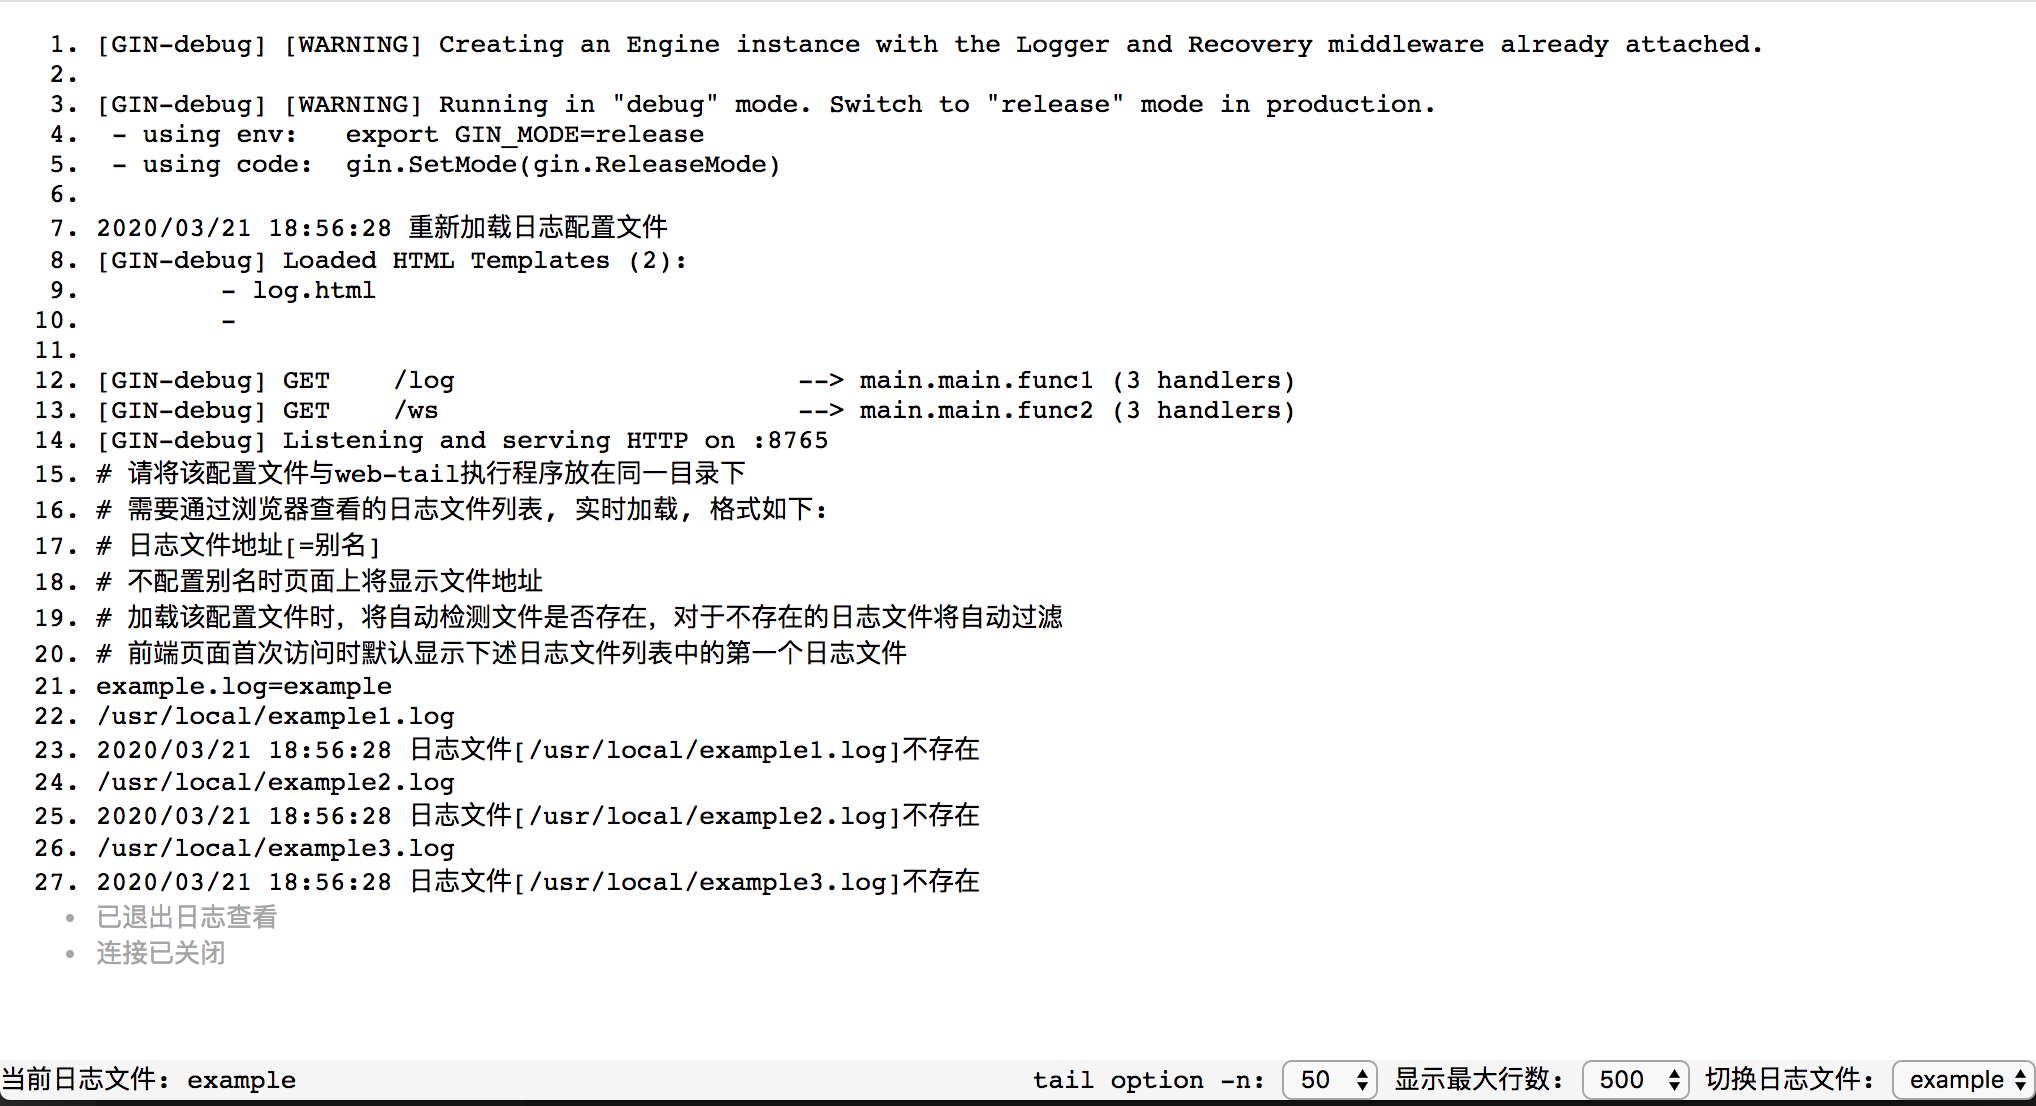
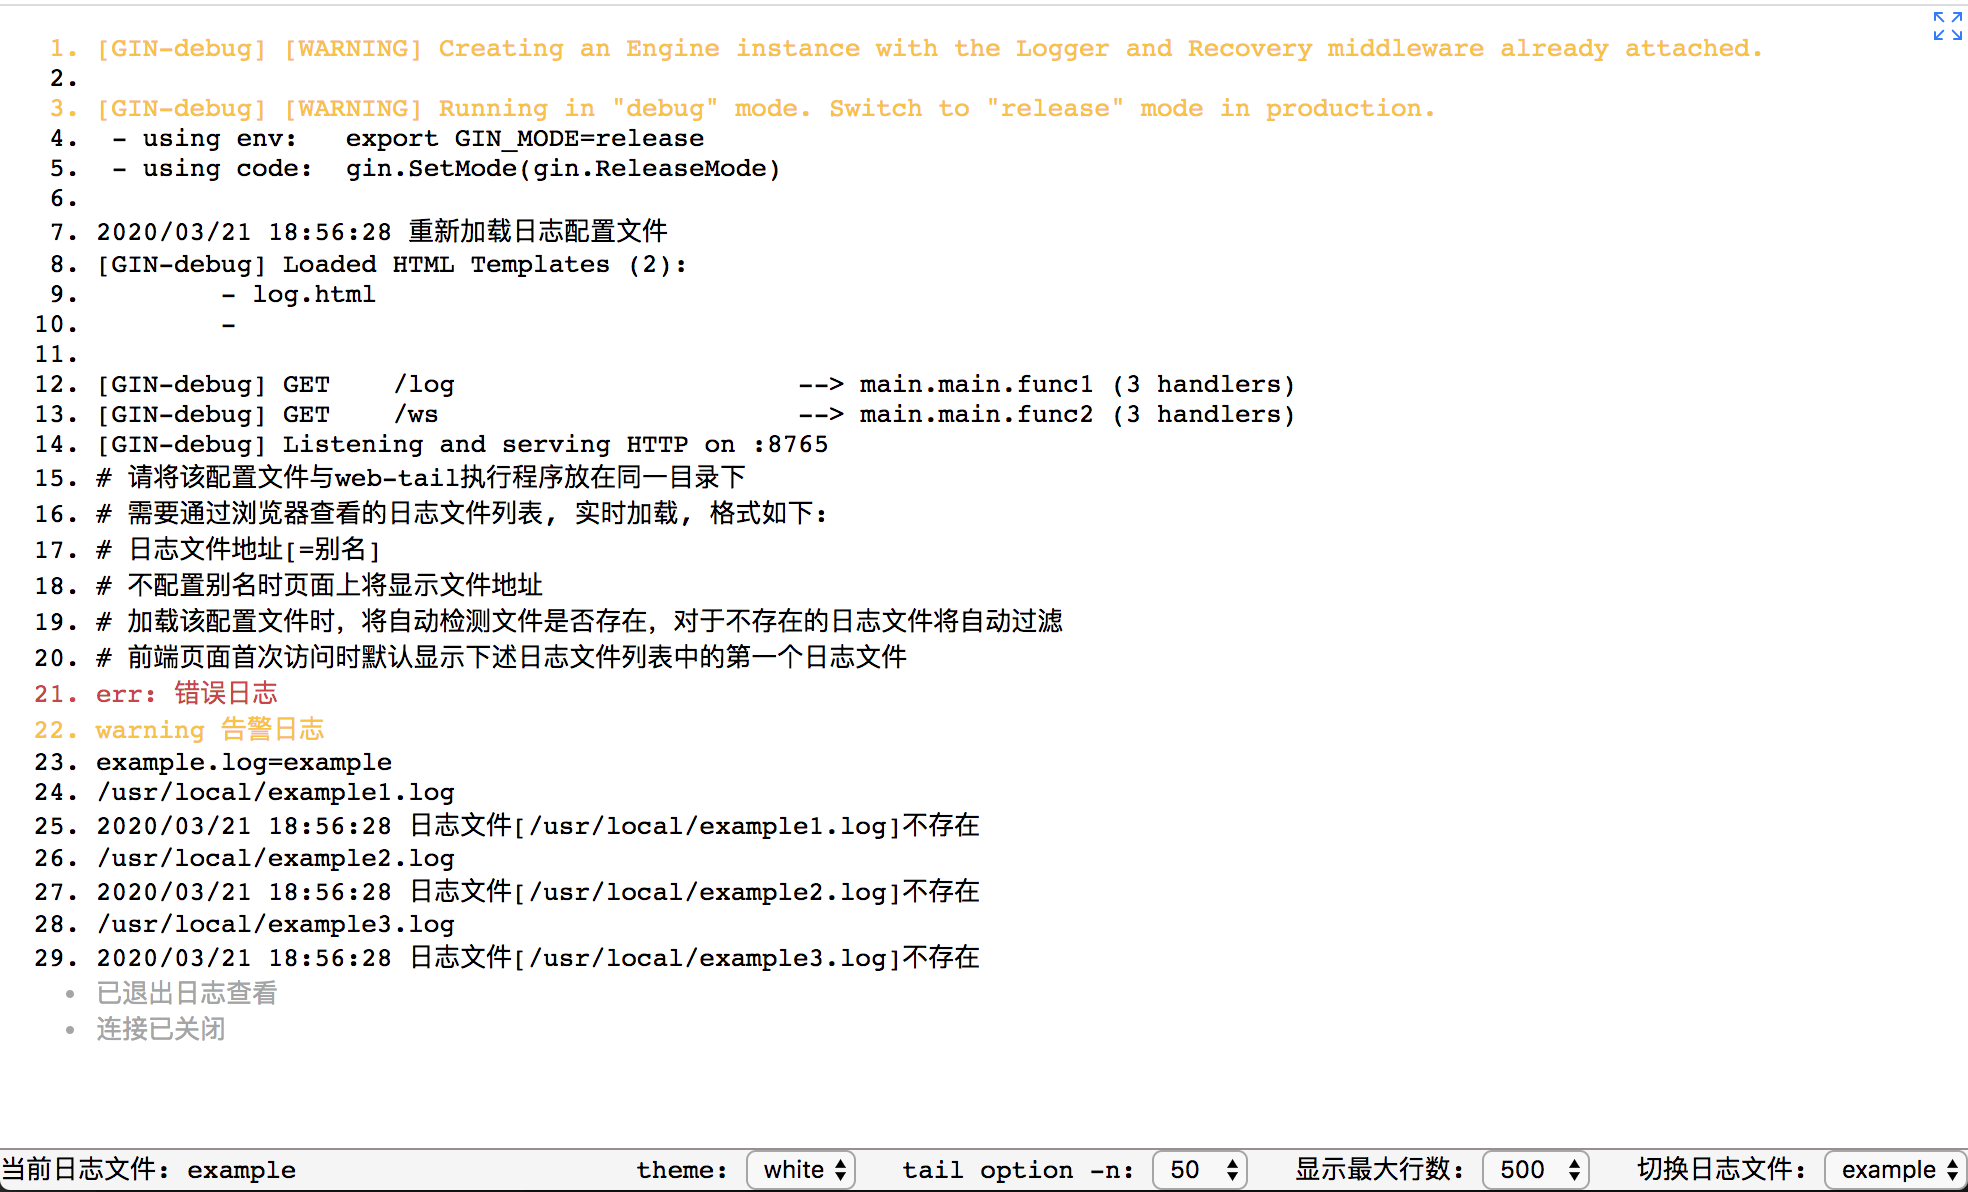
docs:修改自述文档

diff --git a/README.md b/README.md
@@ -10,6 +10,9 @@ web-tail 当前包含功能如下：
 - [x] 在浏览器中切换日志
 - [x] 在服务端通过修改 `log.li` 配置文件即可实时添加或删除日志文件，无需重启web-tail
 - [x] 支持tail -n参数
+- [x] 错误与警告日志着色
+- [x] 切换明暗两种主题
+- [x] 全屏显示
 
 # 依赖
 
@@ -17,12 +20,14 @@ web-tail主要使用websocket技术实现日志在浏览器页面的实时滚动
 
 依赖项目如下：
 
+- [go1.13.4](https://golang.org/dl/)
+
 - [gorilla/websocket](https://github.com/gorilla/websocket)
 - [gin-gonic/gin](https://github.com/gin-gonic/gin)
 
 # 配置
 
-web-tail需要一个`log.li`配置文件，示例配置文件内容如下：
+web-tail只需要一个`log.li`配置文件，配置比较简单，且支持热加载，示例配置文件内容如下：
 
 ~~~bash
 # 请将该配置文件与web-tail执行程序放在同一目录下
@@ -39,31 +44,46 @@ example.log=example
 
 # 使用
 
-下载web-tail代码，进入web-tail目录，构建应用
+> 可以下载源码自行编译也可下载已构建好的软件包直接使用，当前提供的编译后的包为mac与linux-amd64平台
 
-~~~bash
-go build
-~~~
+## 从二进制包启动
 
-如果要将编译后的应用放置在本机以外的其他服务器上，可以使用交叉编译，以linux-amd64为例：
+根据需要，下载构建好的相应系统的[二进制压缩包](https://github.com/plholx/web-tail/releases)，解压后修改`log.li`配置文件，启动`web-tail`即可
 
-~~~bash
-GOOS=linux GOARCH=amd64 go build
-~~~
-
-_上传web-tail可执行文件时需一同上传配置文件`log.li`与文件夹`tmpls`_
-
-然后根据情况修改`long.li` 配置文件后执行程序：
-
-~~~bash
-# 端口号可根据需要进行修改
-# 使web-tail在后台运行执行下述命令（linux系统）
+```bash
+# 下载web-tail-linux-amd64.zip或web-tail-Darwin-17.7.0.zip
+# 解压
+unzip web-tail-linux-amd64.zip
+# 进入目录
+cd web-tail-linux-amd64
+# 根据需要修改log.li配置文件
+# 启动 根据需要修改端口号
+# 后台运行(linux)
 setsid ./web-tail -addr=:8765 &> web-tail.log
-# 非后台运行时可执行下述命令
-# ./web-tail -addr=:8765
+# 前台运行
+./web-tail -addr=:8765
+```
+
+## 从源码启动
+
+下载web-tail代码，进入web-tail目录，构建应用，默认你的系统已安装`golang` 需要的环境
+
+~~~bash
+# 构建mac系统的软件包
+make build-mac
+# 构建linux-amd64系统的软件包
+make build-linux
+# 同时构建上述两种系统的软件包
+make build-all
+# 其他系统架构(Windows除外)可自行修改Makefile文件进行构建
 ~~~
 
-最后打浏览器进行访问，地址：http://ip:8765/log，按`ESC`键可退出与服务器的连接，也可在页面底部右下角切换选择不同的日志进行查看:
+在`bin`目录下查看编译后生成的压缩包
+
+将压缩包在本机或上传到相应的服务器上解压后，后续操作同`从二进制包启动
+
+## 访问
+
+打浏览器进行访问，地址：http://ip:8765/log，按`ESC`键可退出与服务器的连接或在页面右下角切换不同的日志进行查看:
 
 ![image-demo](assets/image-demo.png)
-
